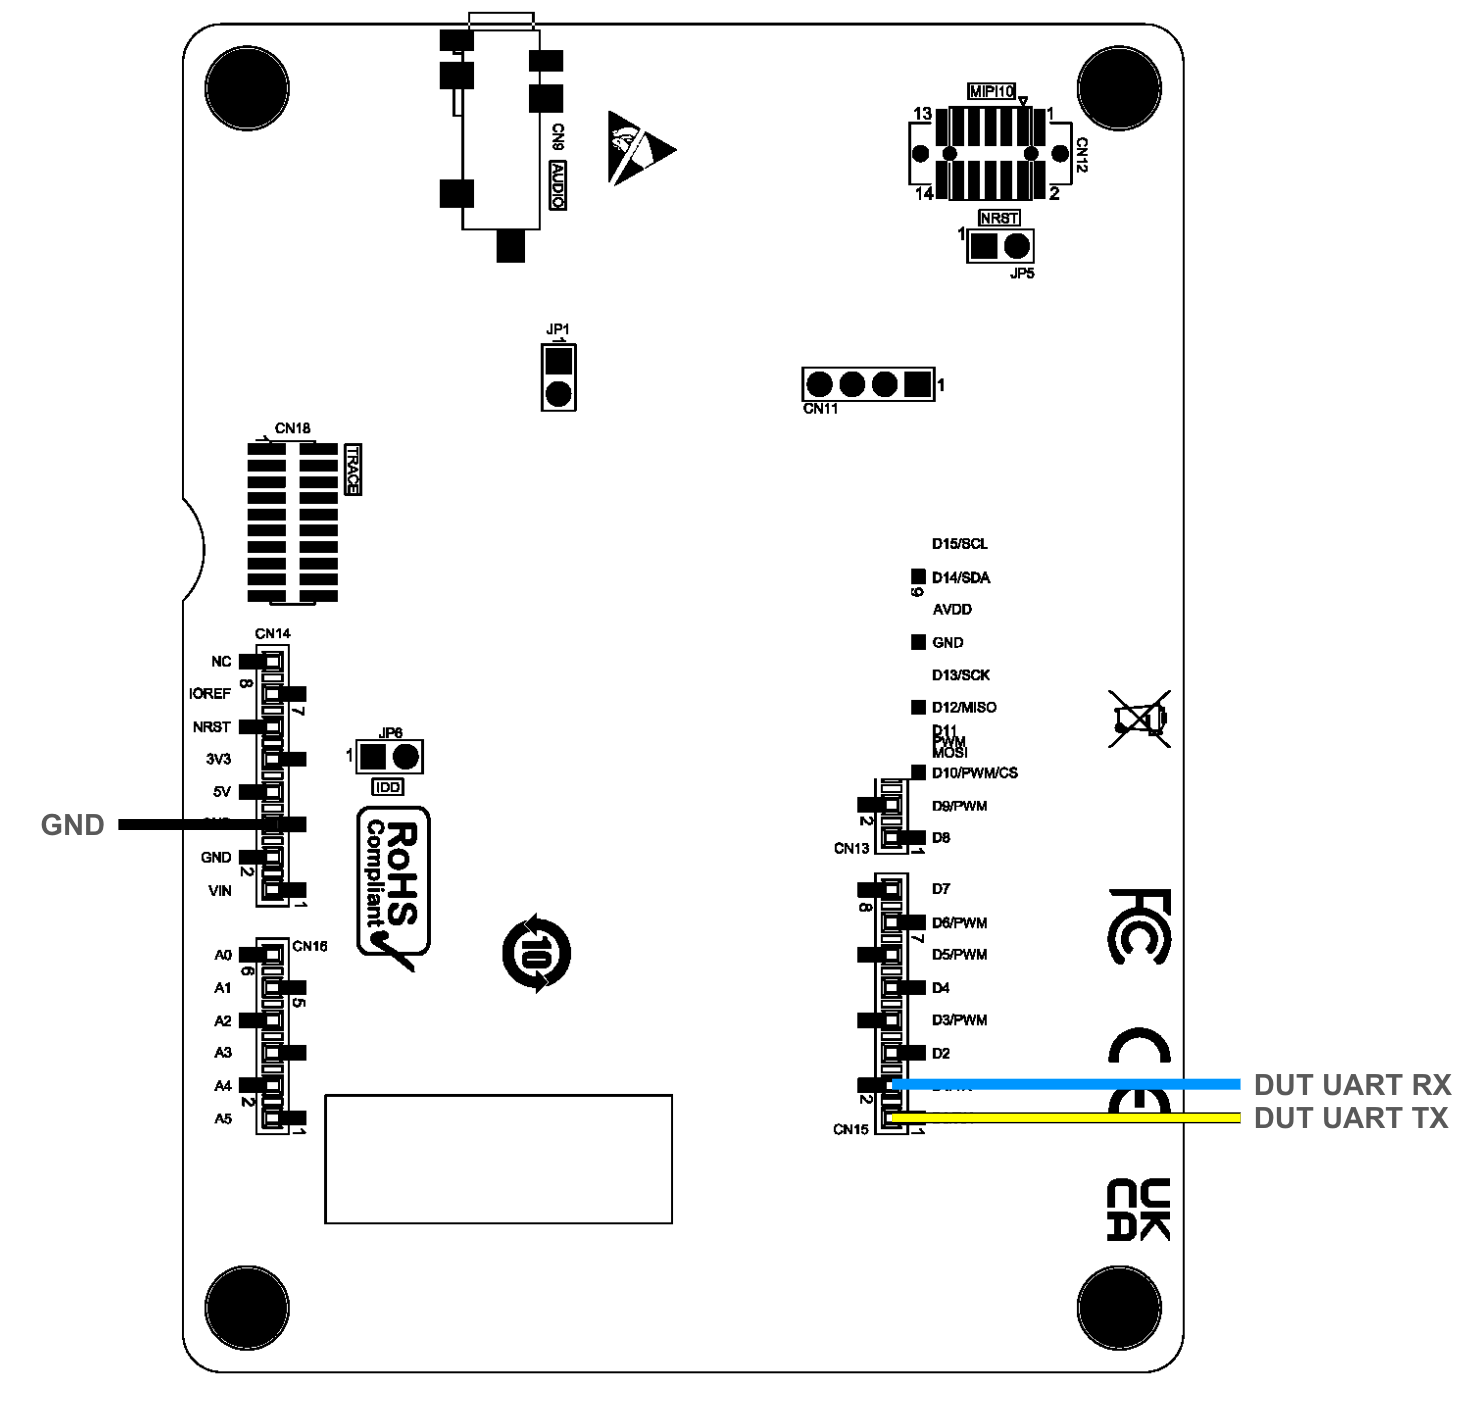
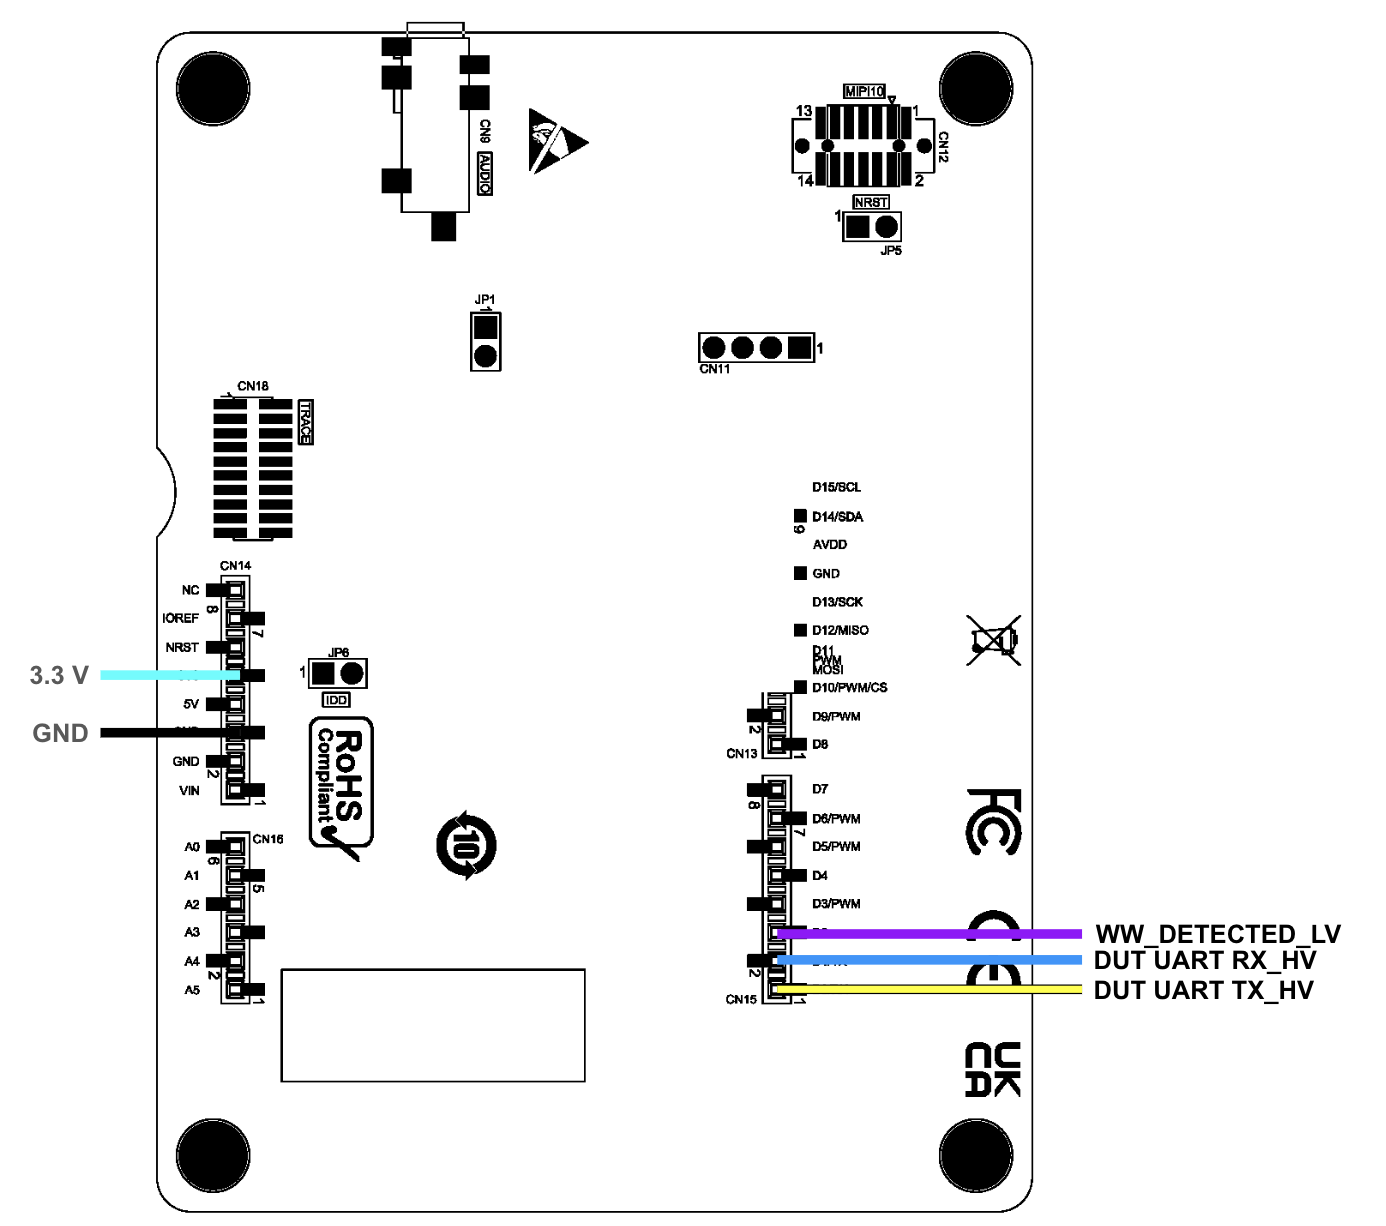
updated documentation and figures

diff --git a/benchmark/runner/README.md b/benchmark/runner/README.md
@@ -15,9 +15,9 @@ Each test trial will be stored in a log file in the local folder.
 python main.py --dataset_path=C:\Your\Dataset\Path --mode=p
 ```
 
-Mode for accuracy is a, mode for performance is p. This needs to be lowercase and we default to accuracy
+Mode for accuracy is a, mode for performance is p. This needs to be lowercase and we default to accuracy.
 
-** As of writing this the Performance Metric has not been implimented **
+The dataset path is the location of the dataset files.  If you have used the EEMBC runner previously the dataset files would have a path like `${HOME}$/eembc/runner/benchmarks/ulp-mlperf/datasets`.  Under the datasets directory you should have subdirectories for each of the benchmarks: ad01 (anomaly detection), ic01 (image classification), kws01 (keyword spotting), vww01 (visual wakeword), sww01 (streaming wakeword).
 
 ## Energy Test Connections
 
@@ -28,10 +28,25 @@ Mode for accuracy is a, mode for performance is p. This needs to be lowercase an
 ![STM32H573I-DK Top Wiring](img/STM32H573I-DK-Top.png)
 ![STM32H573I-DK Bottom Wiring](img/STM32H573I-DK-Bottom.png)
 
+The contents of the SD card are only required for the streaming test, but a card must be present in the interface board for it to function for any of the benchmarks.
+
 ### Device Under Test (L4R5ZI)
 ![DUT Wiring](img/L4R5ZI.png)
 
+## Streaming Test
+The streaming wakeword test is substantially different than the other benchmarks.  It requires the interface board regardless of whether power is being measured in order to deliver the streaming audio over I2S.  Power measurements are required for submissions, but for debugging purposes the streaming test can be run without the energy monitor.
 
+* **SD Card** The SD card stores the wav files that are delivered to the DUT.  Copy the contents of `tiny/benchmark/runner/sd_card/` onto the SD card.
+* **Data directory** Copy the contents of `tiny/benchmark/runner/sww_data_dir` into the sub-directory `sww01` under the data directory. This directory includes the primary test file `sww_long_test.json` as well as some smaller test files meant for debugging.  The test file contains a json list of dicts, where each dict contains the following keys:
+   * "wav_file" The wav file to play for this test.  It should be available on the SD card.
+   * "sample_rate" Sample rate of the wav file.  Currently only 16kS/s has been tested.
+   * "length_sec" The length in seconds of the wav file.  This (plus 10 seconds) sets the timeout length for the runner when it instructs the interface board to play the file.
+   * "detection_windows": A list of lists.  Each inner list contains the starting time and ending time of one occurrence of the wakeword.
+      * Ex `[[1.0, 1.6476250000000001], [7.0, 7.358625]` indicates that the word is being spoken from 1.0s to 1.65s and from 7.0s to 7.36s.  
+      * For each occurence of the wakeword the admissible detection window is defined as starting at the beginning of the occurrence and ending 1 second after the end of the occurence. Detections made within this time window are counted as true positives.  If there is no detection made in this time, it is counted as a false negative (aka false rejection). 
+         * For example, with the detection windows listed above, a detection recorded by the interface board at 2.60 s would count as a true positive, but a detection at 2.8s would count as a false positive.
+         * This timing was selected because the reference model has a one-second backward-looking receptive field.
+      * Detections made outside of the admissible detection window count as false positives.  False positives are "debounced" with a 1-second interval. So if a single sound triggers multiple consecutive detections, they will collectively only count as one detection if they all occur within a one second interval.
 ---
 
 ## Test Runner
@@ -56,7 +71,9 @@ The test runner connects to the **interface board**, **power board**, and **DUT*
 - `download` - Download data to the test device
 - `loop` - Run the commands a specified number of times
 - `infer` - Run inference for a specified number of cycles
+- `stream` - Specific to the streaming benchmark
 
+Benchmarks will generally include a loop that repeats the test over a number of files.  The `model_id` is determined by sending the `profile` command to the DUT and extracting the model string from the DUT's response. The corresponding test is then selected from `tests.yaml`. 
 ---
 
 ### Device Configuration `devices.yaml`
@@ -72,9 +89,7 @@ The device file defines available devices that are automatically detected by the
 ---
 
 ### Device Under Test Configuration `dut.yml`
-Optionally define:
-- **`baud`**: The baud rate
-- **`voltage`**: The operating voltage
+The `dut.yml` file has been removed and incorporated into `devices.yaml`.
 
 ---
 
@@ -82,15 +97,16 @@ Optionally define:
 Follow these steps to run tests on the device.
 
 ### Step 1: Update the Baud Rate
-Ensure the DUT board has a file attached and note its **BAUD rate**.  
-In `device_under_test.py`, update **line 9** to reflect this baud rate.
+Note the **BAUD rate** of the DUT board.
+In `device_under_test.py`, update **line 9** to reflect this baud rate.  Note: this setting is only respected when the DUT is connected directly to the host.  When the interface board is used, the baud rate is set on the interface board. At present, the interface board must be re-compiled to change the baud rate of the interface-DUT connection.  See the notes in the `interface` folder for details.
 
 ### Step 2: Configure the Interface Board
 If your **interface board** is set up correctly (reference the `interface` folder), you should have **two separate baud rates**:
 - One for the DUT board connection.
 - One for the computer connection.
 
-In `io_manager.py`, update **line 6** to reflect the **computer → interface** baud rate.
+The host-interface baud rate defaults to 115200 but can be set by an optional 'baud' setting in the `devices.yaml` file.
+As a last-resort debug method, the host-interface baud rate can also be set by modifying `io_manager.py`; update **line 6** to reflect the **computer → interface** baud rate.
 
 ### Step 3: Verify Wiring
 Double-check the wiring as per the beginning of the README.  
@@ -112,7 +128,7 @@ Each test trial will be stored in a log file in the local folder.
 python main.py --dataset_path=C:\Your\Dataset\Path --mode=e
 ```
 
-You must define mode as e and if for some reason the PowerBoard is not detecting it will return a runtime error
+You must define mode as e and if for some reason the PowerBoard is not detecting it will return a runtime error.
 ## Troubleshooting Section
 
 If you encounter errors while running the test, refer to the guide below.
@@ -126,7 +142,7 @@ This typically indicates a **UART transmission error**.
    - On Windows, this error is often caused by restricted access to Serial ports.
    - Open **PowerShell** as an **administrator** and retry the test.
 3. **Ensure no other application is using the device ports** –  
-   - If another process has locked the ports, the above fixes will not work.
+   - If another process has locked the ports, the above fixes will not work. This can often happen if you have a terminal (e.g. PuTTY) connected for debug purposes.
 
 ---
 
